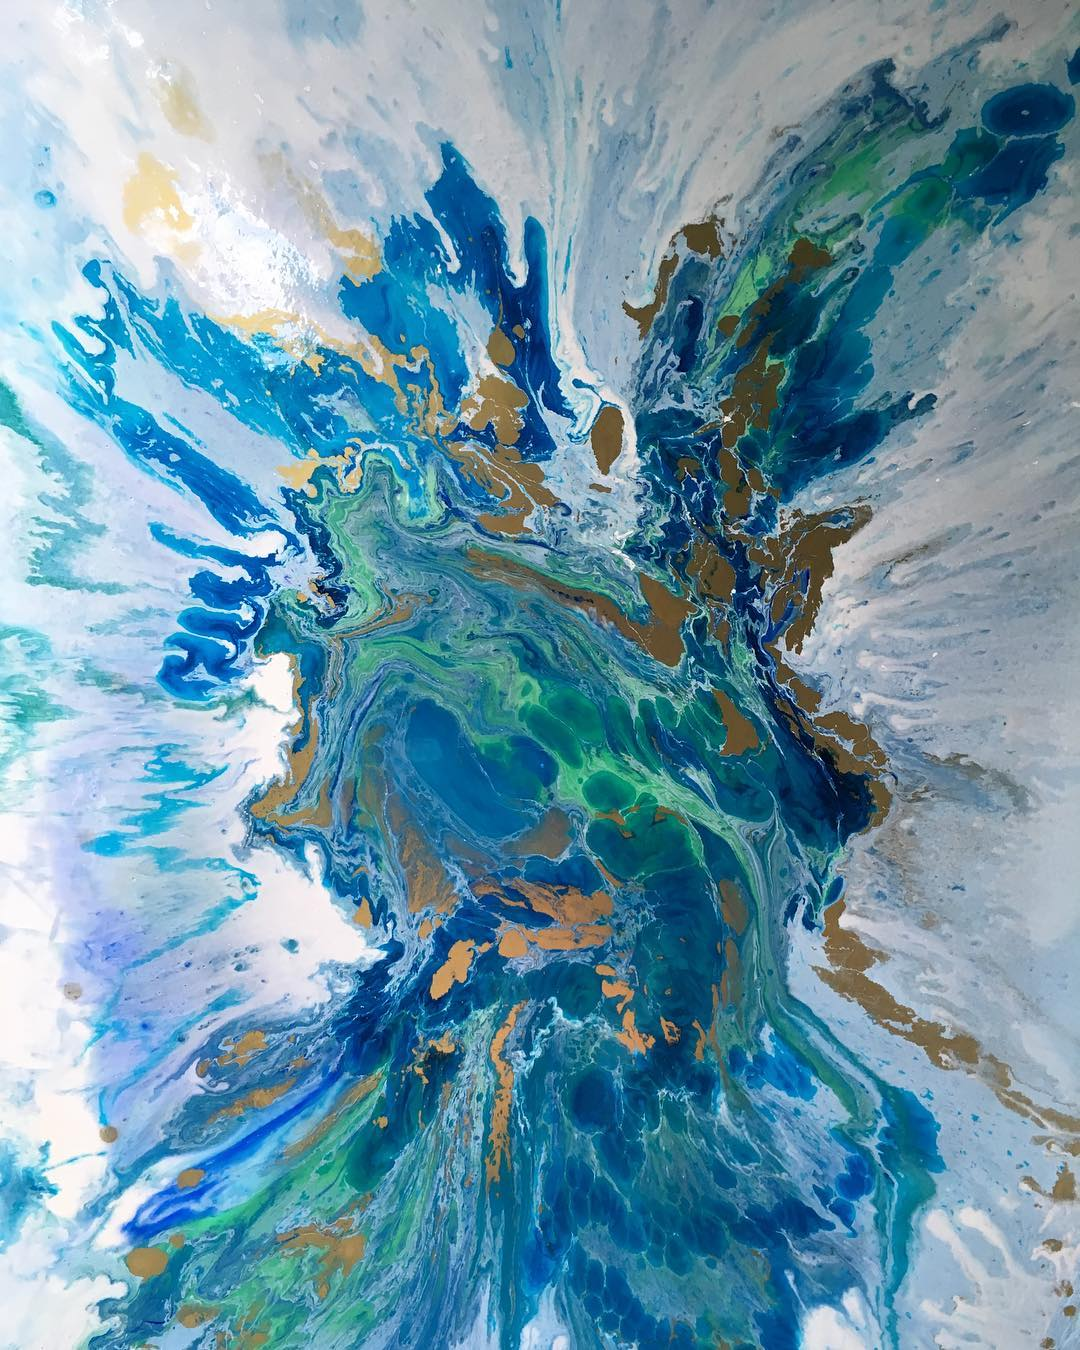
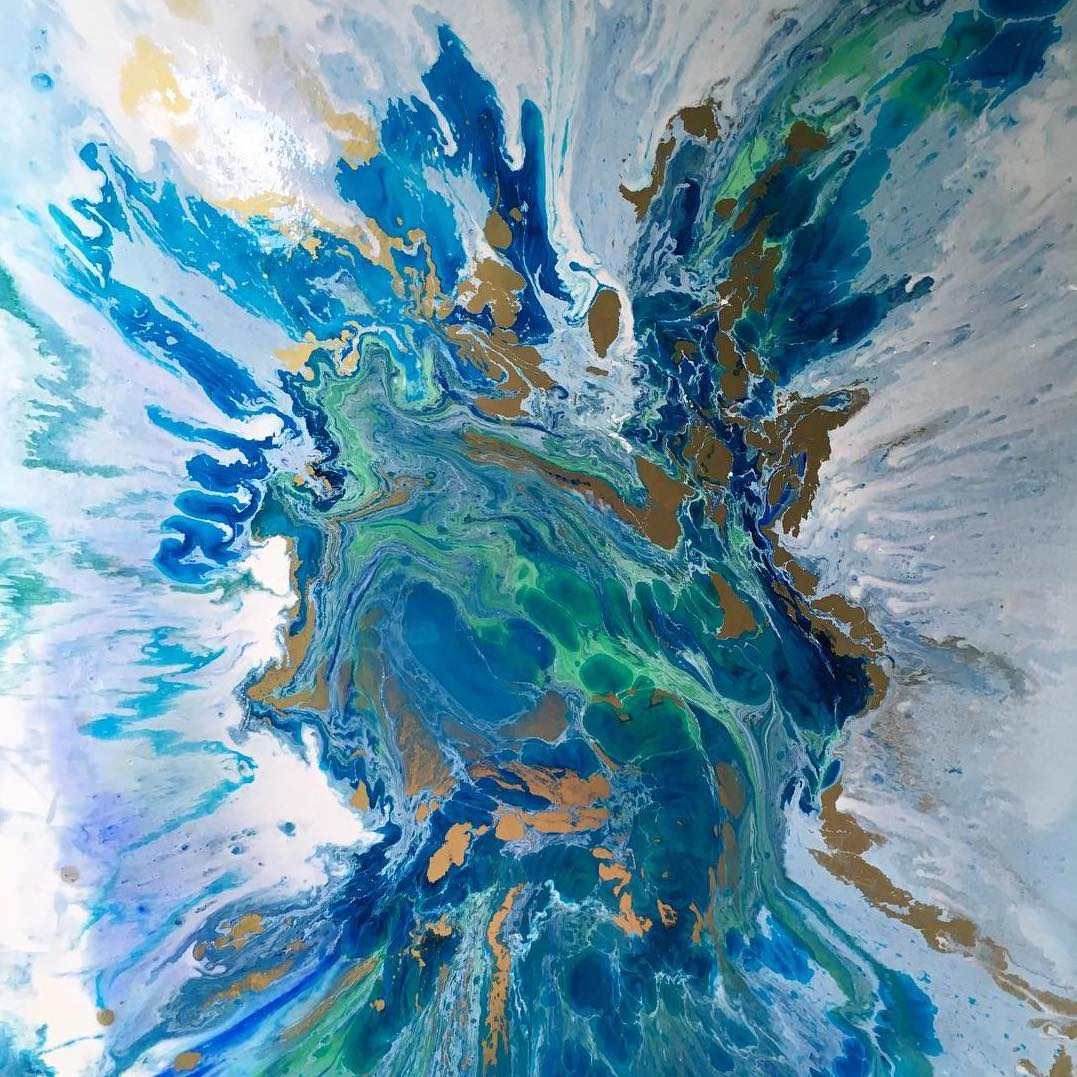
cropped images

diff --git a/css/style.css b/css/style.css
@@ -50,6 +50,18 @@ h1 {
     color: #FEFCFA;
 }
 
+h2 {
+	color: #58595b;
+	font-family: 'Alegreya Sans', sans-serif;
+    font-style: normal;
+    font-size: 25px;
+    height: 60px;
+    position: relative;
+    left: 8em;
+    bottom: 2em;
+    width: 7em;
+ }
+
 #container {
 	display: flex;
 	flex-wrap: wrap;
@@ -69,18 +81,16 @@ h1 {
 }
 
 section {
+	display: flex;
+	flex-direction: row;
+	flex-wrap: wrap;
 	width: 100%;
+	padding-top: 5em;
+	padding-bottom: 5em;
 }
 
 img { 
 	width: 100%;
- }
-
- h2 {
-	color: #58595b;
-	font-family: 'Alegreya Sans', sans-serif;
-    font-style: normal;
-    font-size: 25px;
  }
 
 p {
